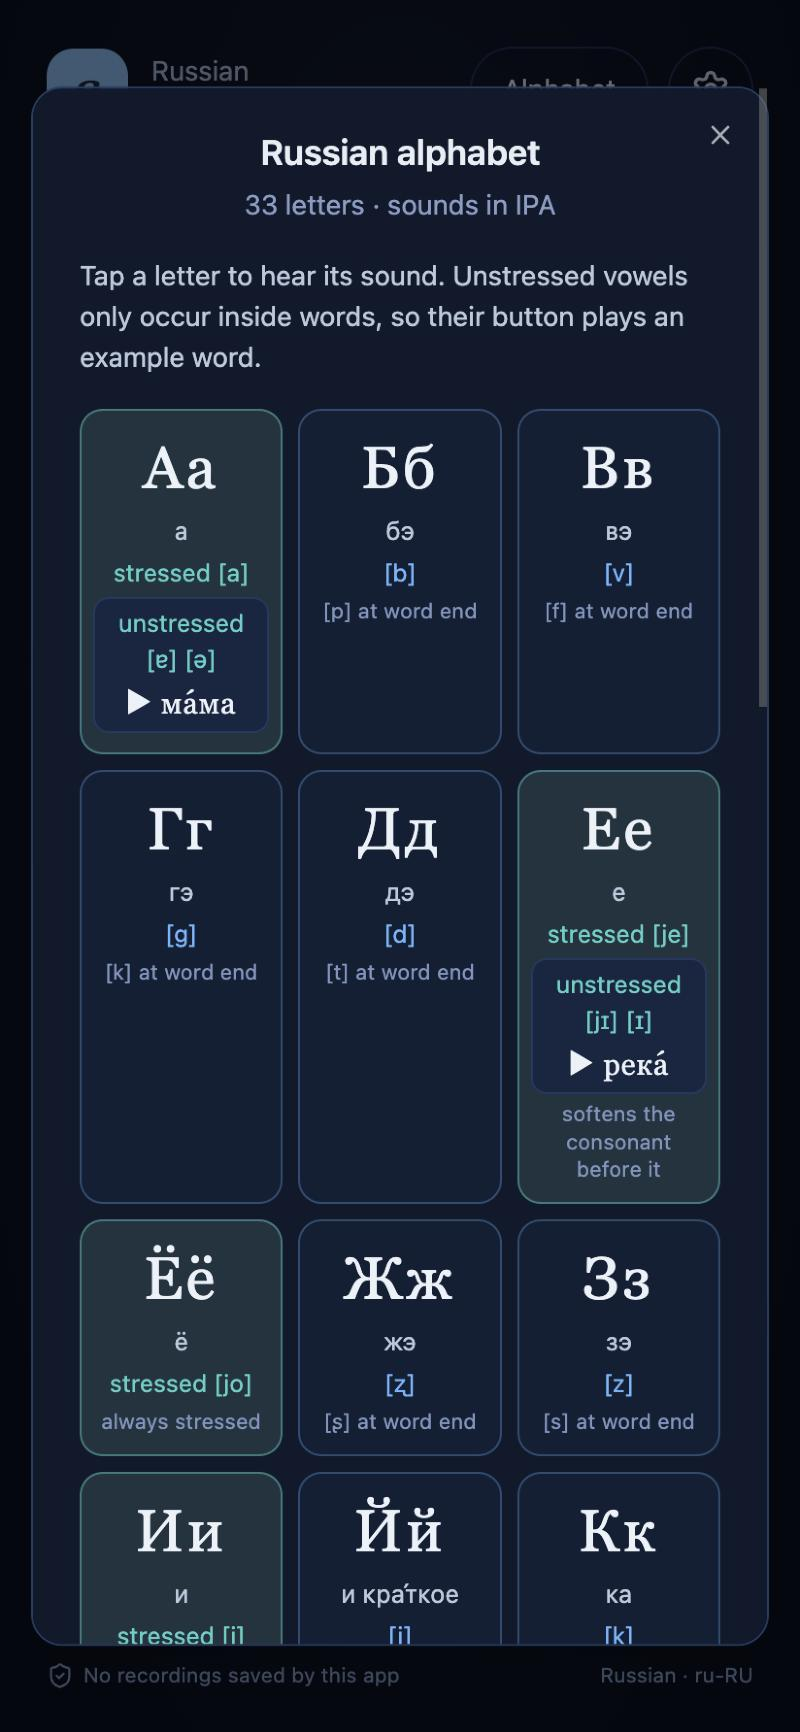
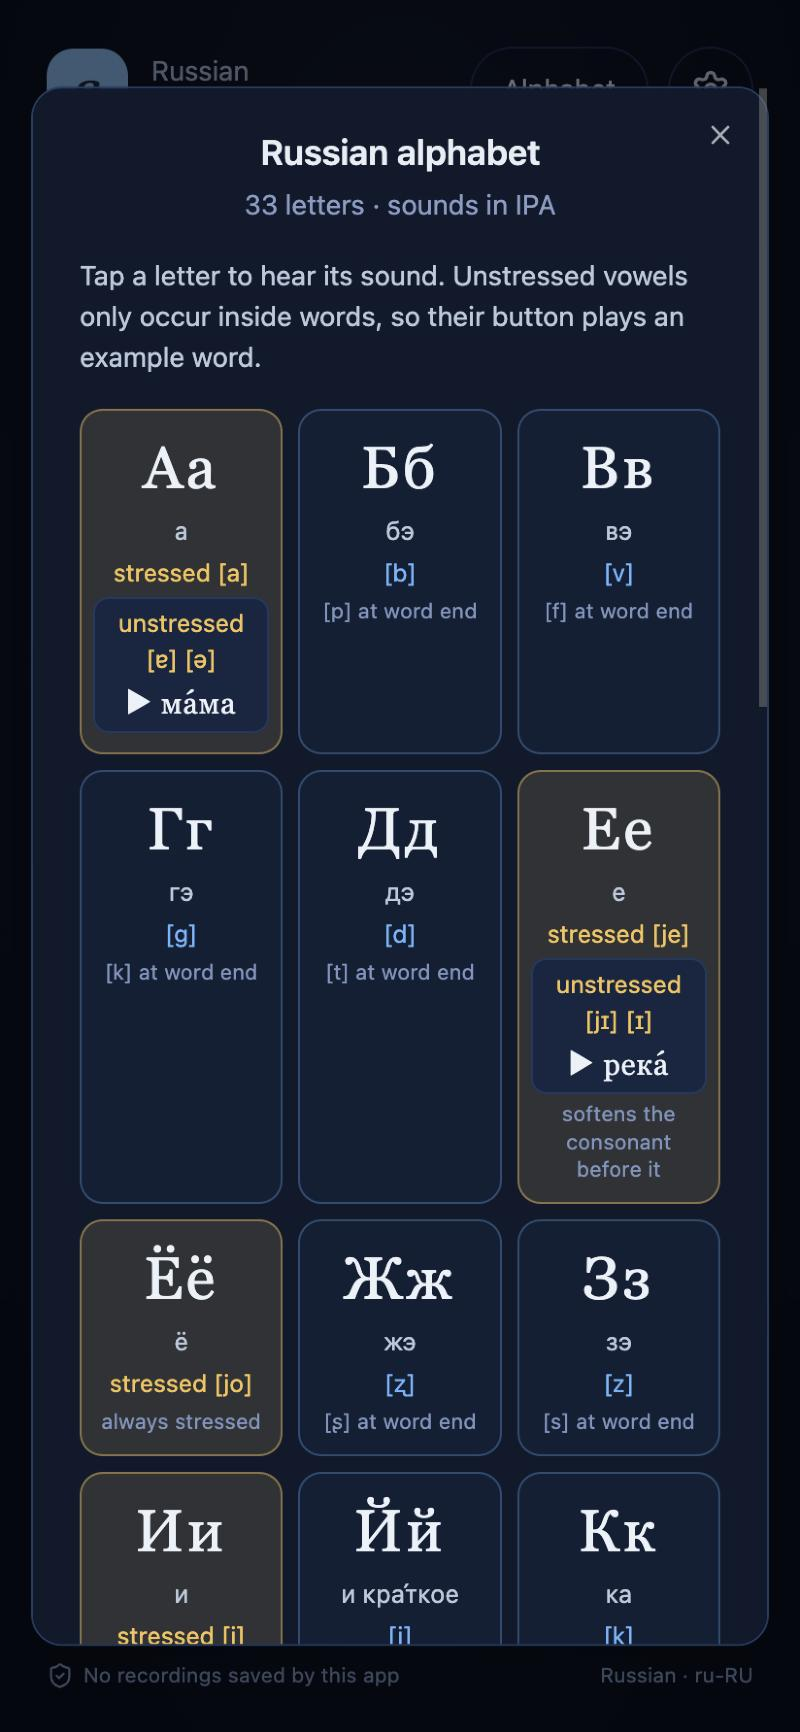
Colour Alphabet vowels amber, matching the stressed-vowel highlight
Vowel cards return to amber instead of teal, so they connect visually
with the highlighted stressed vowel in each word. README screenshot and
text updated.

diff --git a/app/globals.css b/app/globals.css
@@ -14,7 +14,7 @@
 .source-note{margin-top:auto;padding-top:12px}
 
 /* Accent palette: each colour marks a function, on top of the navy base. */
-:root{--say:#4fd1c5;--slow:#b39bff;--speak:#ff9f5a;--next:#6cb6ff;--good:#6fdc8c;--fair:#f6c453;--low:#ff7a7a;--vowel:#4fd1c5;--consonant:#6cb6ff}
+:root{--say:#4fd1c5;--slow:#b39bff;--speak:#ff9f5a;--next:#6cb6ff;--good:#6fdc8c;--fair:#f6c453;--low:#ff7a7a;--vowel:#f6c453;--consonant:#6cb6ff}
 .controls .say svg{color:var(--say)}
 .controls .slow svg{color:var(--slow)}
 .controls .speak svg{color:var(--speak)}

diff --git a/README.md b/README.md
@@ -9,7 +9,7 @@ An installable web app (PWA) for practising Russian pronunciation, one word at a
 
 <p align="center">
   <img src="docs/screenshots/practice.jpg" alt="Practice screen showing the word зи́мний (winter) with its stressed vowel highlighted, and the Say, Say Slowly, Tap to Speak and Next Word buttons" width="300">
-  <img src="docs/screenshots/alphabet.jpg" alt="Alphabet panel with vowels in teal and consonants in blue, showing letter names, IPA sounds and unstressed example words" width="300">
+  <img src="docs/screenshots/alphabet.jpg" alt="Alphabet panel with vowels in amber and consonants in blue, showing letter names, IPA sounds and unstressed example words" width="300">
 </p>
 
 There is no backend or shared account. Each person uses their **own Azure Speech key (East US)**. The browser talks to Microsoft Azure directly, and the key never reaches the app's host.
@@ -58,7 +58,7 @@ A static, multi-user Russian pronunciation PWA. React + TypeScript in the browse
 
 - 41,231 spelling/stress entries, 40,860 distinct spellings, randomized by maximum length (1–32 Cyrillic letters), with no immediate repeat of the same spelling
 - English meaning, canonical stress, Wiktionary source links, sourced IPA used for synthesis
-- The stressed vowel is highlighted in the word; scores are coloured green (80+), amber (60–79) or coral (below 60); in the Alphabet, vowels are teal and consonants blue
+- The stressed vowel is highlighted in the word; scores are coloured green (80+), amber (60–79) or coral (below 60); in the Alphabet, vowels are amber (like the stressed vowel) and consonants blue
 - Svetlana/Dmitry Russian neural voices; normal and half-speed (Say Slowly) speech. Each clip starts with a 250ms pause so phones don't clip the first sound
 - Alphabet panel: the 33 letters in standard order with names and IPA; tapping a letter plays its sound (consonants with a short neutral vowel, as in "buh"). Vowels also show their unstressed sound, played inside a common example word, because Azure voices an isolated reduced vowel as a full one
 - Generated speech is kept in memory for the session, so replaying a word or letter does not call Azure again
